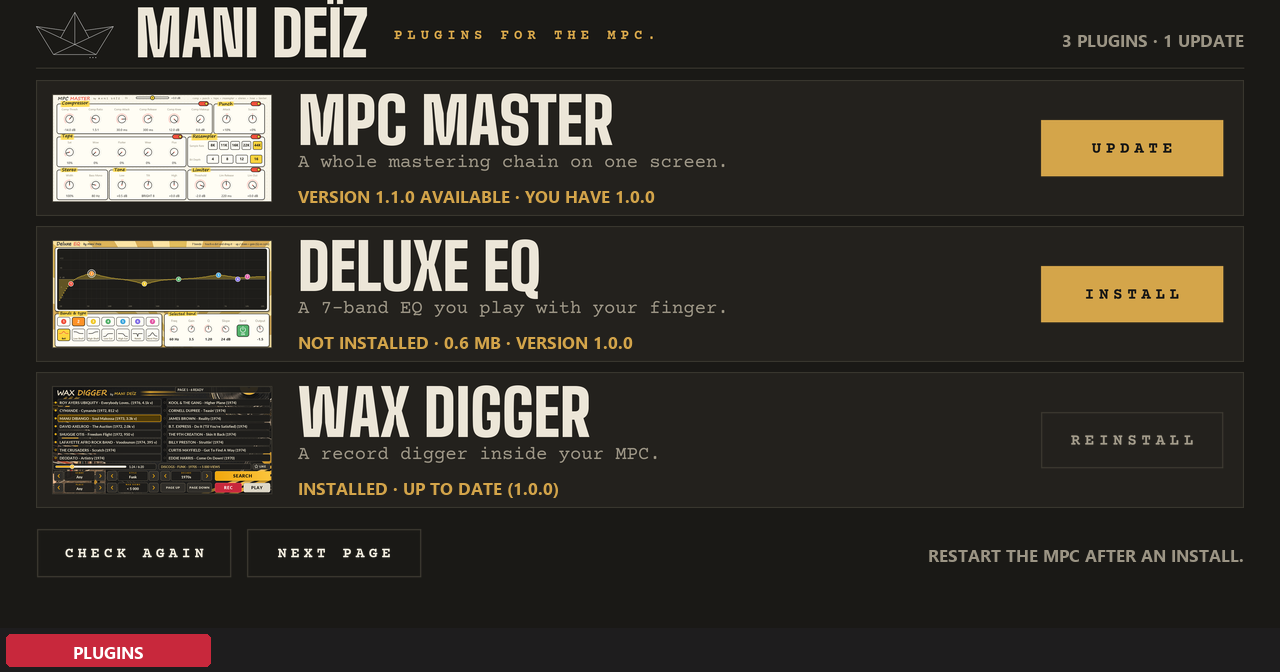
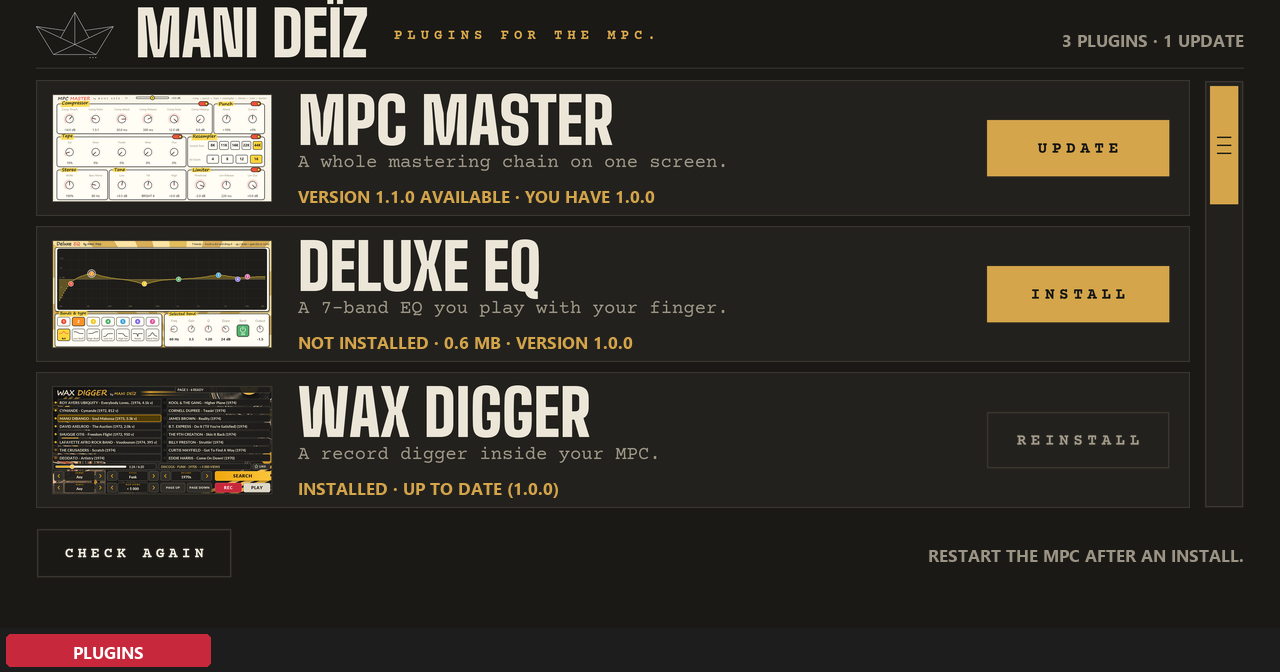
Live Rooms in the hub and on the site; Hub 1.0.1

diff --git a/index.html b/index.html
@@ -3,7 +3,7 @@
 <meta charset="utf-8">
 <meta name="viewport" content="width=device-width, initial-scale=1">
 <title>MANI DEÏZ · Plugins for the MPC</title>
-<meta name="description" content="Plugins for the standalone MPC, made by a beatmaker: Wax Digger, MPC Master, Deluxe EQ. Download the Hub once, install everything from the MPC.">
+<meta name="description" content="Plugins for the standalone MPC, made by a beatmaker: Wax Digger, MPC Master, Deluxe EQ, Live Rooms. Download the Hub once, install everything from the MPC.">
 <link rel="preconnect" href="https://fonts.googleapis.com">
 <link rel="preconnect" href="https://fonts.gstatic.com" crossorigin>
 <link rel="stylesheet" href="https://fonts.googleapis.com/css2?family=Big+Shoulders+Display:wght@700;900&family=Courier+Prime:ital,wght@0,400;0,700;1,400&display=swap">
@@ -161,6 +161,11 @@ footer a:hover{color:var(--amber)}
  <div><h3>Deluxe EQ</h3><p>A 7-band EQ you play with your finger.</p><span class="state">Free · 0.6 MB</span></div>
  <span class="inhub">In the Hub</span>
 </a>
+<a class="row" href="#live-rooms">
+ <img src="assets/live-rooms.png" alt="" width="226" height="113">
+ <div><h3>Live Rooms</h3><p>Real rooms and echo chambers around your sounds.</p><span class="state">Free · 62 MB</span></div>
+ <span class="inhub">In the Hub</span>
+</a>
 </div>
 </section>
 
@@ -200,6 +205,19 @@ footer a:hover{color:var(--amber)}
    <div class="links"><a class="btn main" href="#hub">Install it from the Hub</a><a class="btn" href="https://github.com/ManiDeiz/deluxe-eq">Full guide</a></div>
   </div>
   <ul><li>Left / right moves the frequency, up / down the gain</li><li>The curve on the screen is the real response of the EQ</li><li>Bell, Low Shelf, High Shelf, Low Cut, High Cut, Notch, Band Pass</li><li>Cuts at 12, 24, 36 or 48 dB per octave</li><li>8 presets, from Boom Bap Drums to Telephone</li></ul>
+ </div>
+</div></section>
+
+<section id="live-rooms"><div class="plug">
+ <div class="shot"><img src="assets/live-rooms.png" alt="Live Rooms: a drawing of the room with the mic pairs, three rows of microphones, and the Space, Balance, Color and Out knobs" width="1280" height="628" loading="lazy"></div>
+ <div class="under">
+  <div>
+   <h2>Live Rooms</h2>
+   <div class="tags">Effect · Free · 62 MB</div>
+   <p>Not an algorithmic reverb: fifteen rooms built from their plans and materials, simulated physically and heard through three pairs of virtual microphones.</p>
+   <div class="links"><a class="btn main" href="#hub">Install it from the Hub</a><a class="btn" href="https://github.com/ManiDeiz/rooms">Full guide</a></div>
+  </div>
+  <ul><li>15 rooms, from a tiled bathroom to a scoring stage and two echo chambers</li><li>Near, Mid and Far mic pairs, each with its own level</li><li>Tube 47, Sphere 50, Ribbon 38 and Dyn 57 microphones</li><li>Decay, HF Decay, Early, Late, Width, and a Crush compressor on the room</li><li>75 presets, five per room, level-matched</li></ul>
  </div>
 </div></section>
 
